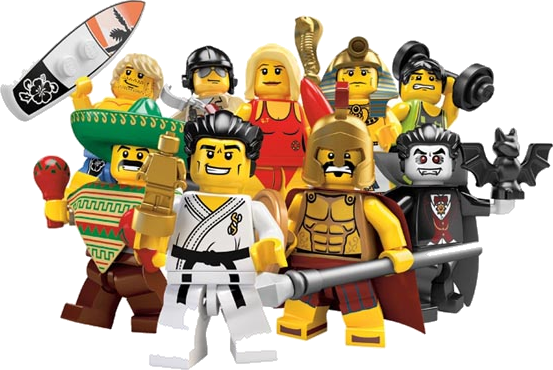
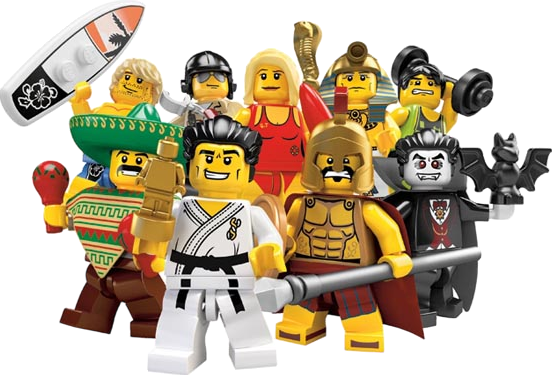
feat(V2-11): BiRefNet segmentation for crowd cut-outs, 8684 re-cut

diff --git a/scripts/seg_model.py b/scripts/seg_model.py
@@ -1,0 +1,63 @@
+"""Foreground mask from a segmentation model (BiRefNet) for crowd photos (V2-11).
+
+Why: colour thresholds (prep_group.py "white"/"shadow") cannot tell white figure parts (karate gi, surfboard,
+mummy) from a white background, so the card colour showed through the figures (owner, 2026-11-14).
+BiRefNet is a dichotomous image segmentation model: it separates the objects from the background by shape.
+
+Install: pip install -r requirements-images.txt   (torch is installed separately; CUDA is used when present)
+The model weights (about 900 MB) download once into the Hugging Face cache on first use.
+Usage (from prep_group.py, method "model"): alpha = model_alpha(rgb)  -> float array 0..1, same size as rgb.
+CLI check: python scripts/seg_model.py <image> <out.png>   (writes the cut-out on magenta for review)
+"""
+import sys
+import numpy as np
+from PIL import Image
+
+# SOURCE: https://huggingface.co/ZhengPeng7/BiRefNet (model card: 1024x1024 input, ImageNet normalisation)
+MODEL_ID = "ZhengPeng7/BiRefNet"
+# Pinned remote-code revision (first download 2026-11-14), so a changed birefnet.py is never run unreviewed.
+REVISION = "e2bf8e4460fc8fa32bba5ea4d94b3233d367b0e4"
+SIZE = 1024
+MEAN, STD = (0.485, 0.456, 0.406), (0.229, 0.224, 0.225)
+
+_model = None
+
+
+def _load():
+    global _model
+    if _model is None:
+        import torch
+        from transformers import AutoModelForImageSegmentation
+        _model = AutoModelForImageSegmentation.from_pretrained(MODEL_ID, revision=REVISION, trust_remote_code=True)
+        _model.to("cuda" if torch.cuda.is_available() else "cpu").eval()
+        torch.set_float32_matmul_precision("high")
+    return _model
+
+
+def model_alpha(rgb):
+    """Soft foreground alpha (0..1) for an RGB uint8 array."""
+    import torch
+    model = _load()
+    h, w = rgb.shape[:2]
+    x = np.asarray(Image.fromarray(rgb).resize((SIZE, SIZE), Image.BICUBIC), np.float32) / 255
+    x = (x - MEAN) / STD
+    p = next(model.parameters())                      # weights may load as float16: match dtype and device
+    t = torch.from_numpy(x.transpose(2, 0, 1)).unsqueeze(0).to(device=p.device, dtype=p.dtype)
+    with torch.no_grad():
+        pred = model(t)[-1].sigmoid()[0, 0].float().cpu().numpy()
+    return np.asarray(Image.fromarray((pred * 255).astype(np.uint8)).resize((w, h), Image.BICUBIC), np.float32) / 255
+
+
+def main():
+    src, dst = sys.argv[1], sys.argv[2]
+    rgb = np.asarray(Image.open(src).convert("RGB"))
+    a = model_alpha(rgb)
+    im = Image.fromarray(rgb).convert("RGBA")
+    im.putalpha(Image.fromarray((a * 255).astype(np.uint8)))
+    bg = Image.new("RGBA", im.size, (255, 0, 255, 255))
+    bg.alpha_composite(im)
+    bg.convert("RGB").save(dst)
+
+
+if __name__ == "__main__":
+    main()

diff --git a/scripts/prep_group.py b/scripts/prep_group.py
@@ -34,7 +34,7 @@ PREP = {
     "8909": ("8909-1.jpg", None, "white", None),
     "71002": ("71002-1.png", None, "grabcut", None),
     # 8684: official crowd render on white (owner source 2026-11-14); replaces the box-back art 8684-1 (method "blue").
-    "8684": ("8684-2.jpg", None, "white", None),
+    "8684": ("8684-2.jpg", None, "model", None),
     "71007": ("71007-1.jpg", None, "shadow", None),
     # 71008: official render from Brickipedia (owner pointer 2026-11-14); the PNG alpha is fully opaque, white bg.
     "71008": ("71008-1.png", None, "shadow", None),
@@ -183,6 +183,18 @@ def prep(sid):
             fg = labels == 1 + int(np.argmax(sizes))
         out = src.copy()
         out.putalpha(Image.fromarray((fg * 255).astype(np.uint8)).filter(ImageFilter.GaussianBlur(0.6)))
+    elif method == "model":
+        # Segmentation model (scripts/seg_model.py): keeps white figure parts that the colour masks cut away.
+        from seg_model import model_alpha
+        a = model_alpha(rgb)
+        fg = keep_big(a > 0.5)
+        a = np.where(ndimage.binary_dilation(fg, iterations=3), a, 0)
+        k = np.maximum(a, 1e-3)[..., None]
+        edge = (a > 0.02) & (a < 0.98)
+        colour = rgb.astype(float)
+        colour[edge] = np.clip(255 - (255 - colour[edge]) / k[edge], 0, 255)   # remove white spill on soft edges
+        out = Image.fromarray(colour.astype(np.uint8)).convert("RGBA")
+        out.putalpha(Image.fromarray((a * 255).astype(np.uint8)))
     else:
         masks = {"white": white_mask, "shadow": shadow_mask, "grabcut": grabcut_mask,
                  "blue": blue_mask}

diff --git a/docs/decisions.md b/docs/decisions.md
@@ -86,3 +86,4 @@
 - 2026-11-07 — Owner bought `minifighunt.com` (not `minifiguresvault`). RDAP: registrar Cloudflare, Inc., nameservers Cloudflare, registered 2026-11-07T18:45:09Z. It is the V2-06 origin: Supabase Site URL and redirect list, `admin-people` ALLOWED_ORIGINS, `telegram-alert` SITE_URL, smoke script.
 - 2026-11-07 — `admin-people` accepts two exact origins during cutover: `https://minifighunt.com` and `https://adisch79.github.io` (ACAO echoes the caller). Reason: GitHub Pages stays live until the V2-06 smoke passes; both reviewers flagged the gap. Remove the GitHub origin when GitHub Pages is switched off (V2-06 step (h)).
 - 2026-11-07 — GitHub Pages switched off after the smoke passed on minifighunt.com; shared-origin guard (`check_pages_origin`, daily cron) and the `deploy` Pages job removed; `admin-people` CORS and Supabase redirect list now minifighunt.com only. Reason: site no longer on adisch79.github.io.
+- 2026-11-14: Crowd cut-outs use the BiRefNet segmentation model (scripts/seg_model.py, prep_group method "model", revision pinned) instead of colour thresholds. Reason: thresholds removed white figure parts, so the bag colour showed through (owner rejected 8684).
